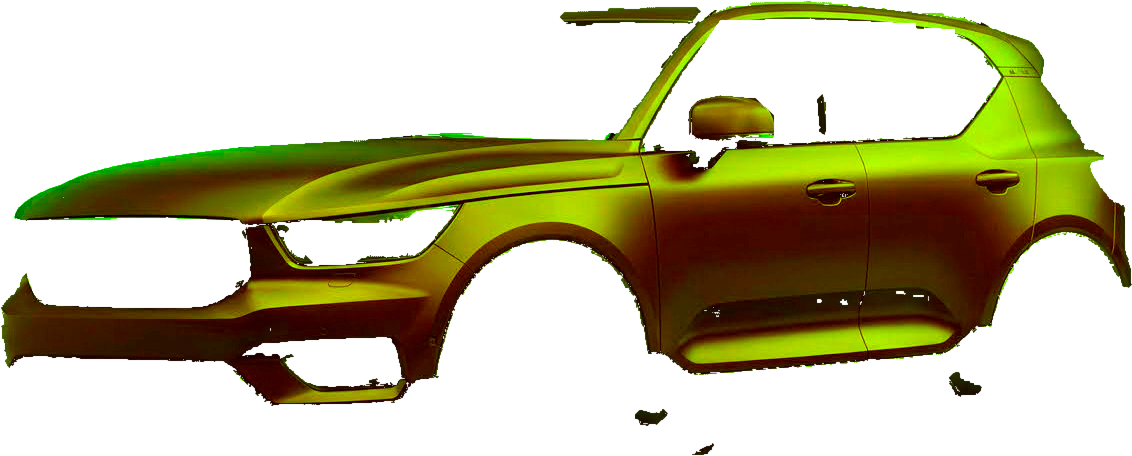
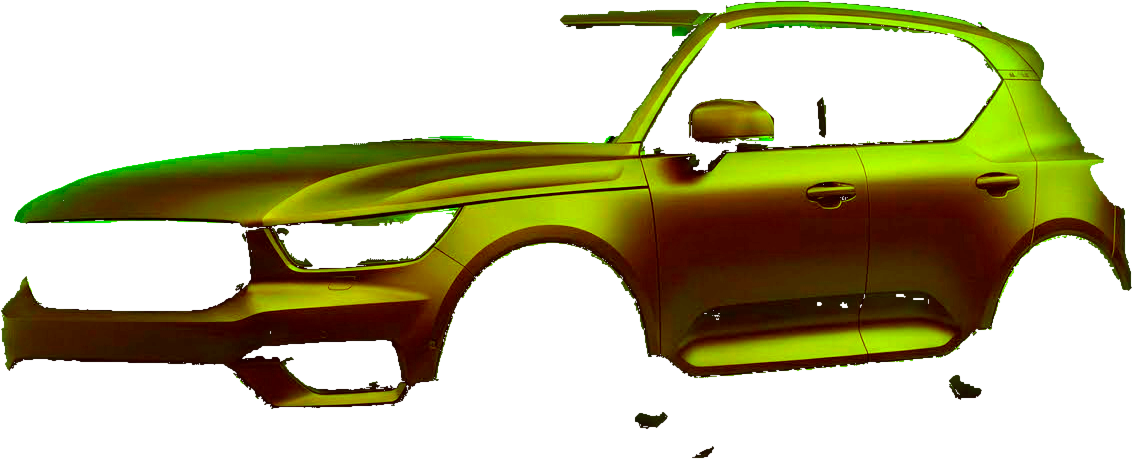
Wrap SUV: roof strip up to the rail, pillar corner
Claude-Session: https://claude.ai/code/session_01TC8hHsQGEZ2GaHBM8k3cGS

diff --git a/index.html b/index.html
@@ -108,7 +108,7 @@
       <div class="wrap-tool">
         <div class="caliper-view wrap-view" id="wrap-view">
           <div class="cv-stage" id="wrap-stage">
-            <img id="wrap-img" src="assets/img/wrap-sports.webp?v=20261110b" alt="Lamborghini Huracan with its body wrapped in the selected color" width="1117" height="787" loading="lazy">
+            <img id="wrap-img" src="assets/img/wrap-sports.webp?v=20261110c" alt="Lamborghini Huracan with its body wrapped in the selected color" width="1117" height="787" loading="lazy">
             <canvas id="wrap-paint" width="1149" height="342" aria-hidden="true"></canvas>
           </div>
           <p class="cv-photo-note">Real car, rewrapped live</p>
@@ -161,7 +161,7 @@
       <div class="caliper-view" id="caliper-view" data-mode="photo">
         <canvas id="caliper-canvas" tabindex="0" role="img" aria-label="3D model of a wheel and brake caliper in the selected color. Drag, or use the arrow keys, to change the angle."></canvas>
         <div class="cv-stage" id="cv-stage">
-          <img id="caliper-img" src="assets/img/caliper-sports.webp?v=20261110b" alt="Black wheel on a red sports car" width="1200" height="900" loading="lazy">
+          <img id="caliper-img" src="assets/img/caliper-sports.webp?v=20261110c" alt="Black wheel on a red sports car" width="1200" height="900" loading="lazy">
           <canvas id="caliper-paint" width="193" height="347" aria-hidden="true"></canvas>
         </div>
         <p class="cv-hint" aria-hidden="true"><span class="cv-hint-icon"></span>Drag to rotate</p>
@@ -469,6 +469,6 @@
 </footer>
 
 <script src="caliper-3d.js?v=202611091725" defer></script>
-<script src="main.js?v=202611100020" defer></script>
+<script src="main.js?v=202611100030" defer></script>
 </body>
 </html>

diff --git a/main.js b/main.js
@@ -36,7 +36,7 @@ function arrowNav(buttons, select) {
 // box = where the shade layer sits in the photo: [x, y, width, height]; size defaults to 1200x900.
 // Bump ASSET_V whenever a photo or shade layer changes, so phones never pair a cached old
 // photo with a new shade layer (that is what makes the repaint look shifted).
-const ASSET_V = '20261110b';
+const ASSET_V = '20261110c';
 const toLin = v => Math.pow(v / 255, 2.2);
 const hexLin = h => { const n = parseInt(h.replace('#', ''), 16); return [n >> 16 & 255, n >> 8 & 255, n & 255].map(toLin); };
 const FIN = { gloss: [1, 1], satin: [0.8, 0.4], matte: [0.6, 0.12] };   // lighting contrast, shine kept
@@ -212,7 +212,7 @@ const wrapPaint = createPainter({
   vehicles: {
     sports: { img: asset('wrap-sports.webp'), shade: asset('wrap-sports-shade.png'), box: [74, 219, 979, 435], size: [1117, 787], alt: 'Lamborghini Huracan with its body wrapped in the selected color' },
     sedan: { img: asset('wrap-sedan.webp'), shade: asset('wrap-sedan-shade.png'), box: [42, 86, 921, 314], size: [1005, 526], alt: 'BMW M3 sedan with its body wrapped in the selected color' },
-    suv: { img: asset('wrap-suv.webp'), shade: asset('wrap-suv-shade.png'), box: [50, 185, 1132, 456], size: [1220, 784], alt: 'Volvo XC40 SUV with its body wrapped in the selected color' },
+    suv: { img: asset('wrap-suv.webp'), shade: asset('wrap-suv-shade.png'), box: [50, 182, 1132, 459], size: [1220, 784], alt: 'Volvo XC40 SUV with its body wrapped in the selected color' },
     truck: { img: asset('wrap-truck.webp'), shade: asset('wrap-truck-shade.png'), box: [83, 53, 838, 278], size: [990, 481], alt: 'Ram TRX pickup with its body wrapped in the selected color' }
   }
 });
